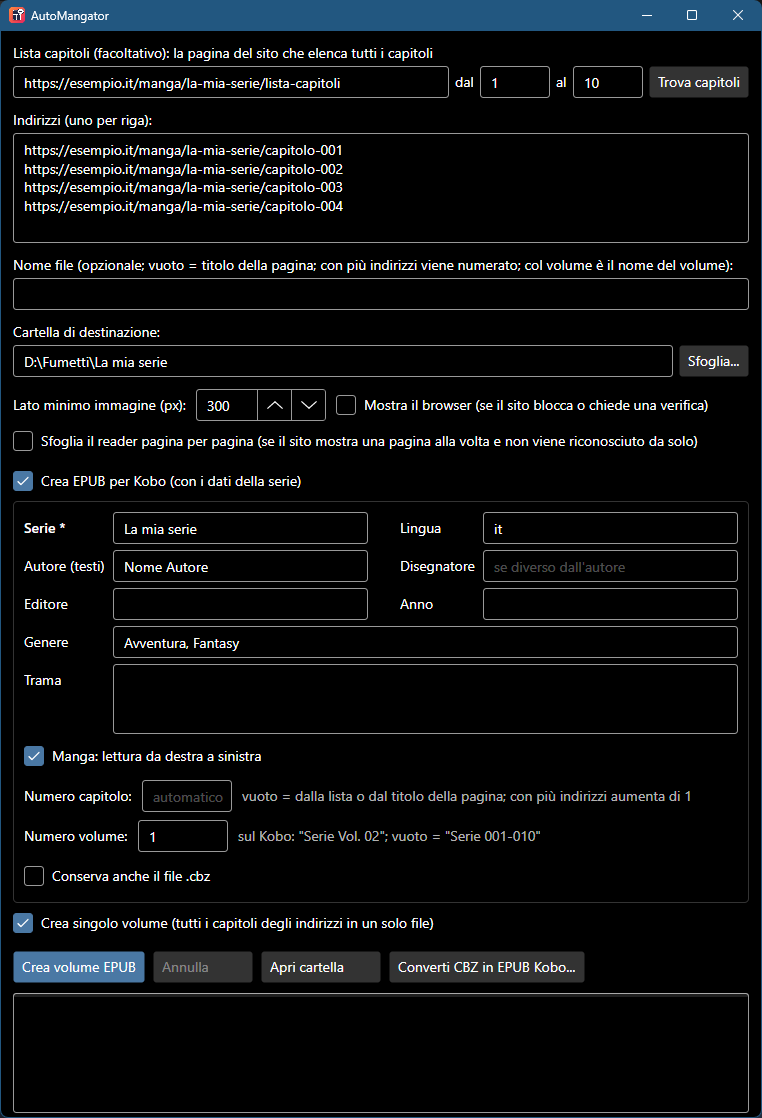
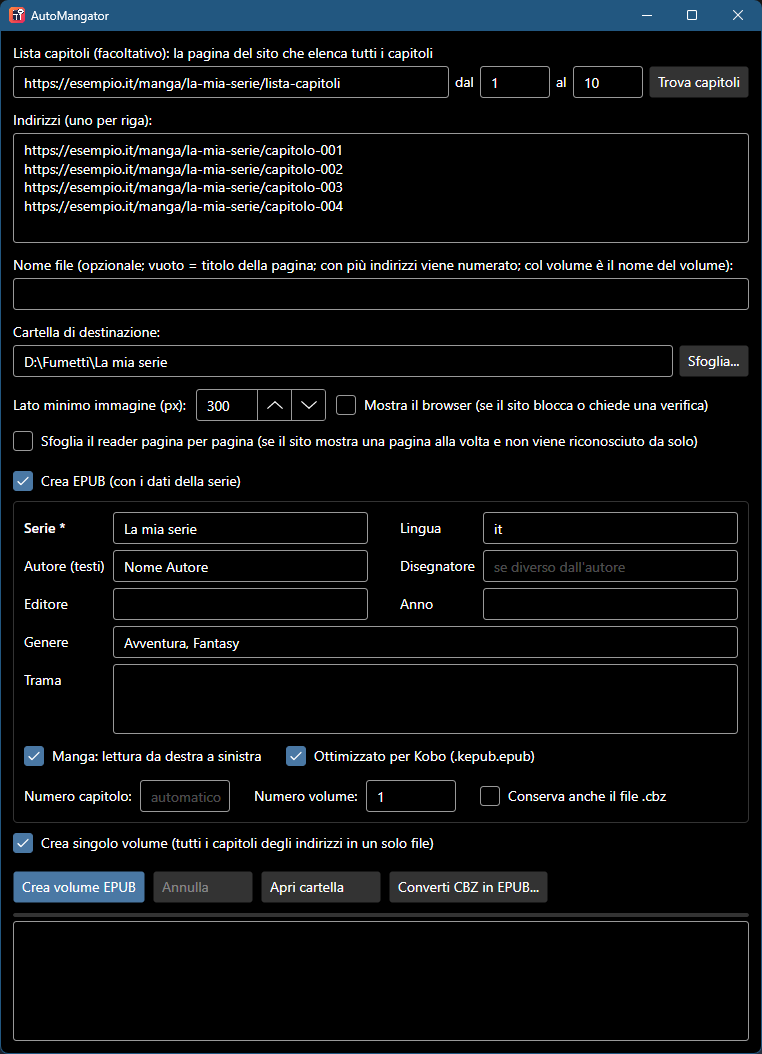
EPUB standard per tutti gli ebook reader, con opzione "Ottimizzato per Kobo"
- "Crea EPUB" crea EPUB 3 standard (.epub); la casella "Ottimizzato per Kobo" cambia
  solo l'estensione in .kepub.epub, così il Kobo usa il suo lettore per il layout fisso
- "Converti CBZ in EPUB...": nuova sottocartella EPUB (le cartelle Kobo delle versioni
  precedenti vengono ancora lette per riproporre i dati della serie)
- Opzione --kobo per --epub da terminale; in CI si provano entrambe le varianti
- Pannello EPUB più compatto, finestra che si adatta alle opzioni aperte e che scorre
  se il contenuto non sta nello schermo
- README: confronto CBZ / EPUB / Kobo e indicazioni per Kindle

diff --git a/EpubMaker.cs b/EpubMaker.cs
@@ -20,6 +20,13 @@ public sealed class BookInfo
     public string Language { get; set; } = "it";
     public string Summary { get; set; } = "";
     public bool RightToLeft { get; set; }
+    /// <summary>
+    /// Estensione .kepub.epub invece di .epub: il contenuto è lo stesso, ma così il Kobo apre il file
+    /// col suo lettore, che gestisce bene le pagine a layout fisso dei fumetti.
+    /// </summary>
+    public bool Kobo { get; set; }
+
+    public string Extension => Kobo ? ".kepub.epub" : ".epub";
 }
 
 /// <summary>Un capitolo: il .cbz di partenza con numero e titolo modificabili.</summary>
@@ -32,13 +39,16 @@ public sealed class ChapterInfo
 }
 
 /// <summary>
-/// Trasforma un .cbz in un .kepub.epub a layout fisso per Kobo, con titolo, autore, serie
-/// e numero del capitolo nei metadati. Le immagini restano quelle originali; solo i formati
-/// che Kobo non mostra (WebP, AVIF) vengono convertiti in JPEG.
+/// Trasforma un .cbz in un EPUB 3 standard a layout fisso, con titolo, autore, serie e numero del
+/// capitolo nei metadati (.kepub.epub se ottimizzato per Kobo). Le immagini restano quelle originali;
+/// solo WebP e AVIF, che molti ebook reader non mostrano, vengono convertiti in JPEG.
 /// </summary>
 public static partial class EpubMaker
 {
-    public const string OutputFolderName = "Kobo";
+    /// <summary>Sottocartella dove "Converti CBZ in EPUB" mette gli EPUB.</summary>
+    public const string OutputFolderName = "EPUB";
+    // Nome usato fino alla 1.5: le cartelle già create continuano a essere lette
+    private const string LegacyOutputFolderName = "Kobo";
 
     /// <summary>Elenca i .cbz della cartella, con il numero preso dal nome del file.</summary>
     public static List<ChapterInfo> LoadChapters(string folder)
@@ -70,8 +80,9 @@ public static partial class EpubMaker
     /// <summary>Rilegge i dati comuni da un EPUB già creato in precedenza, se c'è.</summary>
     public static BookInfo? TryReadExisting(string folder)
     {
-        // Nella sottocartella Kobo (finestra "Converti CBZ in EPUB Kobo") o nella cartella stessa (finestra principale)
-        string? epub = new[] { Path.Combine(folder, OutputFolderName), folder }
+        // Nella sottocartella EPUB (finestra "Converti CBZ in EPUB"), in quella Kobo delle versioni
+        // precedenti o nella cartella stessa (finestra principale)
+        string? epub = new[] { Path.Combine(folder, OutputFolderName), Path.Combine(folder, LegacyOutputFolderName), folder }
             .Where(Directory.Exists)
             .Select(d => Directory.GetFiles(d, "*.epub").Order().FirstOrDefault())
             .FirstOrDefault(f => f is not null);
@@ -99,12 +110,13 @@ public static partial class EpubMaker
                 Language = meta.Element(dc + "language")?.Value ?? "it",
                 Summary = meta.Element(dc + "description")?.Value ?? "",
                 RightToLeft = (string?)opf.Root.Element(ns + "spine")?.Attribute("page-progression-direction") == "rtl",
+                Kobo = epub.EndsWith(".kepub.epub", StringComparison.OrdinalIgnoreCase),
             };
         }
         catch (Exception ex) when (ex is IOException or InvalidDataException or System.Xml.XmlException) { return null; }
     }
 
-    /// <summary>Titolo mostrato dal Kobo: "Serie 012 - Titolo", così i capitoli restano in ordine.</summary>
+    /// <summary>Titolo mostrato dall'ebook reader: "Serie 012 - Titolo", così i capitoli restano in ordine.</summary>
     public static string BookTitle(BookInfo book, ChapterInfo ch)
     {
         string title = $"{book.Series} {PadNumber(ch.Number)}";
@@ -115,7 +127,7 @@ public static partial class EpubMaker
     public static string Create(BookInfo book, ChapterInfo ch, string outputFolder)
     {
         string title = BookTitle(book, ch);
-        string path = Path.Combine(outputFolder, CbzMaker.SafeFileName($"{book.Series} {PadNumber(ch.Number)}") + ".kepub.epub");
+        string path = Path.Combine(outputFolder, CbzMaker.SafeFileName($"{book.Series} {PadNumber(ch.Number)}") + book.Extension);
         // Stesso identificativo per lo stesso capitolo: ricreare l'EPUB non lo duplica
         return Write(book, [ch], title, NormalizeNumber(ch.Number), Identifier($"{book.Series.Trim().ToLowerInvariant()}|{NormalizeNumber(ch.Number)}"),
             path, chapterToc: false);
@@ -132,7 +144,7 @@ public static partial class EpubMaker
         string title = hasVolume ? $"{book.Series} Vol. {PadVolume(volume!)}" : $"{book.Series} {range}";
         string index = NormalizeNumber(hasVolume ? volume! : chapters[0].Number);
         string name = string.IsNullOrWhiteSpace(fileName) ? title : fileName.Trim();
-        string path = Path.Combine(outputFolder, CbzMaker.SafeFileName(name) + ".kepub.epub");
+        string path = Path.Combine(outputFolder, CbzMaker.SafeFileName(name) + book.Extension);
         return Write(book, chapters, title, index, Identifier($"{book.Series.Trim().ToLowerInvariant()}|volume|{title.ToLowerInvariant()}"),
             path, chapterToc: true);
     }
@@ -201,7 +213,7 @@ public static partial class EpubMaker
                 case SKEncodedImageFormat.Png: page = new(id, ".png", "image/png", w, h); break;
                 case SKEncodedImageFormat.Gif: page = new(id, ".gif", "image/gif", w, h); break;
                 default:
-                    // WebP, AVIF, ...: Kobo non li mostra negli EPUB
+                    // WebP, AVIF, ...: molti ebook reader (Kobo compreso) non li mostrano negli EPUB
                     using (var bmp = SKBitmap.Decode(data))
                     using (var img = SKImage.FromBitmap(bmp))
                     using (var jpg = img.Encode(SKEncodedImageFormat.Jpeg, 92))
@@ -238,7 +250,7 @@ public static partial class EpubMaker
             new XElement(ns + "meta", new XAttribute("refines", "#series"), new XAttribute("property", "collection-type"), "series"),
             new XElement(ns + "meta", new XAttribute("refines", "#series"), new XAttribute("property", "group-position"), index));
 
-        // Il primo autore è quello che Kobo mostra in libreria
+        // Il primo autore è quello che gli ebook reader mostrano in libreria
         void Creator(string id, string name, string role)
         {
             if (string.IsNullOrWhiteSpace(name)) return;

diff --git a/MainWindow.axaml.cs b/MainWindow.axaml.cs
@@ -13,7 +13,7 @@ public partial class MainWindow : Window
 {
     private CancellationTokenSource? _cts;
     private string? _lastFile;
-    private double _epubGrowth; // di quanto è stata allungata la finestra per il pannello EPUB
+    private double _autoGrowth; // di quanto è stata allungata la finestra per far posto ai pannelli
     // Capitoli trovati con "Trova capitoli": numero e titolo noti per indirizzo
     private Dictionary<string, FoundChapter> _found = [];
 
@@ -43,11 +43,11 @@ public partial class MainWindow : Window
             OpenInFileManager(txtFolder.Text.Trim());
     }
 
-    private async void btnKobo_Click(object? sender, RoutedEventArgs e)
+    private async void btnConvert_Click(object? sender, RoutedEventArgs e)
     {
         // Propone la cartella dell'ultimo .cbz creato, se c'è
         string? folder = _lastFile is not null ? Path.GetDirectoryName(_lastFile) : null;
-        await new KoboWindow(folder).ShowDialog(this);
+        await new ConvertWindow(folder).ShowDialog(this);
     }
 
     /// <summary>Apre una cartella, o la cartella di un file selezionandolo, in Esplora file / Finder.</summary>
@@ -70,14 +70,29 @@ public partial class MainWindow : Window
         if (pnlEpub.IsVisible == on) return;
         pnlEpub.IsVisible = on;
         UpdateStartLabel();
+        FitHeight();
+    }
 
-        // Allunga la finestra quanto il pannello (senza superare lo schermo) e,
-        // togliendo la spunta, la riaccorcia di quanto era stata allungata
-        if (on)
+    private void chkVolume_IsCheckedChanged(object? sender, RoutedEventArgs e)
+    {
+        pnlVolumeNumber.IsVisible = chkVolume.IsChecked == true;
+        UpdateStartLabel();
+        FitHeight();
+    }
+
+    /// <summary>
+    /// Adatta l'altezza della finestra a quello che mostra: la allunga quando compaiono pannelli
+    /// (senza superare lo schermo) e, quando spariscono, la riaccorcia di quanto l'aveva allungata.
+    /// </summary>
+    private void FitHeight()
+    {
+        // Si misura il contenuto (non la ScrollViewer che lo contiene) con altezza libera
+        layout.Measure(new Size(Math.Max(0, Bounds.Width), double.PositiveInfinity));
+        double needed = layout.DesiredSize.Height;
+        if (needed > Height)
         {
-            pnlEpub.Measure(new Size(Math.Max(0, Bounds.Width - 24), double.PositiveInfinity));
             double before = Height;
-            Height += pnlEpub.DesiredSize.Height + 4;
+            Height = needed;
             if (Screens.ScreenFromWindow(this) is { } screen)
             {
                 // Resta dentro l'area utile dello schermo (barra delle applicazioni / Dock esclusi),
@@ -89,19 +104,14 @@ public partial class MainWindow : Window
                 if (bottom > area.Bottom)
                     Position = new PixelPoint(Position.X, Math.Max(area.Y, Position.Y - (bottom - area.Bottom)));
             }
-            _epubGrowth = Height - before;
+            _autoGrowth += Height - before;
         }
-        else
+        else if (_autoGrowth > 0)
         {
-            Height = Math.Max(MinHeight, Height - _epubGrowth);
-            _epubGrowth = 0;
+            double shrink = Math.Min(_autoGrowth, Height - needed);
+            Height -= shrink;
+            _autoGrowth -= shrink;
         }
-    }
-
-    private void chkVolume_IsCheckedChanged(object? sender, RoutedEventArgs e)
-    {
-        pnlVolumeNumber.IsVisible = chkVolume.IsChecked == true;
-        UpdateStartLabel();
     }
 
     // "Crea CBZ", "Crea EPUB", "Crea volume CBZ", "Crea volume EPUB"
@@ -257,7 +267,7 @@ public partial class MainWindow : Window
         public double? FirstChapter;
     }
 
-    // Un file per capitolo (.cbz, oppure .kepub.epub). Restituisce true se un sito ha chiesto la verifica anti-bot.
+    // Un file per capitolo (.cbz, oppure .epub / .kepub.epub). Restituisce true se un sito ha chiesto la verifica anti-bot.
     private async Task<bool> CreateChaptersAsync(CbzMaker maker, Job job, IProgress<string> log, CancellationToken ct)
     {
         int ok = 0;
@@ -354,7 +364,11 @@ public partial class MainWindow : Window
                 _lastFile = await Task.Run(() => EpubMaker.CreateVolume(book, chapters, job.VolumeNumber, job.Folder, job.BaseName));
                 Log($"Volume creato: {_lastFile}");
                 if (job.KeepCbz)
-                    Log($"Conservato {await Task.Run(() => CbzMaker.MergeCbz(chapters.Select(c => c.CbzPath), job.Folder, Path.GetFileName(_lastFile).Replace(".kepub.epub", "")))}");
+                {
+                    // Stesso nome del volume EPUB, senza estensione (.epub o .kepub.epub)
+                    string name = Path.GetFileName(_lastFile)[..^book.Extension.Length];
+                    Log($"Conservato {await Task.Run(() => CbzMaker.MergeCbz(chapters.Select(c => c.CbzPath), job.Folder, name))}");
+                }
             }
             else
             {
@@ -442,7 +456,7 @@ public partial class MainWindow : Window
         btnCancel.IsEnabled = running;
         txtUrls.IsReadOnly = txtName.IsReadOnly = txtFolder.IsReadOnly = running;
         txtListUrl.IsReadOnly = txtFrom.IsReadOnly = txtTo.IsReadOnly = running;
-        btnBrowse.IsEnabled = numMin.IsEnabled = chkShow.IsEnabled = chkReader.IsEnabled = btnKobo.IsEnabled = !running;
+        btnBrowse.IsEnabled = numMin.IsEnabled = chkShow.IsEnabled = chkReader.IsEnabled = btnConvert.IsEnabled = !running;
         chkEpub.IsEnabled = pnlEpub.IsEnabled = chkVolume.IsEnabled = !running;
         progress.IsIndeterminate = running;
     }

diff --git a/ConvertWindow.axaml.cs b/ConvertWindow.axaml.cs
@@ -4,15 +4,15 @@ using Avalonia.Platform.Storage;
 
 namespace AutoMangator;
 
-/// <summary>Chiede i dati della serie e crea un EPUB per Kobo da ogni .cbz di una cartella.</summary>
-public partial class KoboWindow : Window
+/// <summary>Chiede i dati della serie e crea un EPUB da ogni .cbz di una cartella.</summary>
+public partial class ConvertWindow : Window
 {
     private List<ChapterInfo> _chapters = [];
     private bool _running;
 
-    public KoboWindow() : this(null) { }
+    public ConvertWindow() : this(null) { }
 
-    public KoboWindow(string? folder)
+    public ConvertWindow(string? folder)
     {
         InitializeComponent();
         if (folder is not null && Directory.Exists(folder))
@@ -81,15 +81,15 @@ public partial class KoboWindow : Window
             }
         });
         Log($"Fatto: {ok} di {_chapters.Count} EPUB creati in {output}");
-        if (ok > 0) Log("Copiali nel Kobo collegato via USB (anche in una sottocartella).");
+        if (ok > 0) Log("Copiali nell'ebook reader collegato via USB (anche in una sottocartella).");
         SetRunning(false);
     }
 
     private void btnOpen_Click(object? sender, RoutedEventArgs e)
     {
         if (string.IsNullOrEmpty(txtFolder.Text)) return;
-        string kobo = Path.Combine(txtFolder.Text, EpubMaker.OutputFolderName);
-        MainWindow.OpenInFileManager(Directory.Exists(kobo) ? kobo : txtFolder.Text);
+        string epubs = Path.Combine(txtFolder.Text, EpubMaker.OutputFolderName);
+        MainWindow.OpenInFileManager(Directory.Exists(epubs) ? epubs : txtFolder.Text);
     }
 
     private void btnClose_Click(object? sender, RoutedEventArgs e) => Close();

diff --git a/Program.cs b/Program.cs
@@ -17,9 +17,12 @@ internal static class Program
             return RunCliAsync(url, rest.Length > 0 ? rest[0] : DefaultOutputFolder,
                 args.Contains("--reader"), args.Contains("--show")).GetAwaiter().GetResult();
         }
-        // AutoMangator --epub <cartella con i .cbz> <serie> [autore]
+        // AutoMangator --epub <cartella con i .cbz> <serie> [autore] [--kobo]
         if (args is ["--epub", var folder, var series, ..])
-            return RunEpubCli(folder, new BookInfo { Series = series, Writer = args.Length > 3 ? args[3] : "" });
+        {
+            var rest = args.Skip(3).Where(a => a != "--kobo").ToArray();
+            return RunEpubCli(folder, new BookInfo { Series = series, Writer = rest.Length > 0 ? rest[0] : "", Kobo = args.Contains("--kobo") });
+        }
 
         BuildAvaloniaApp().StartWithClassicDesktopLifetime(args);
         return 0;

diff --git a/SeriesInfoPanel.axaml.cs b/SeriesInfoPanel.axaml.cs
@@ -23,6 +23,7 @@ public partial class SeriesInfoPanel : UserControl
         txtLanguage.Text = b.Language;
         txtSummary.Text = b.Summary;
         chkRtl.IsChecked = b.RightToLeft;
+        chkKobo.IsChecked = b.Kobo;
     }
 
     public BookInfo Read() => new()
@@ -36,5 +37,6 @@ public partial class SeriesInfoPanel : UserControl
         Language = txtLanguage.Text ?? "",
         Summary = txtSummary.Text ?? "",
         RightToLeft = chkRtl.IsChecked == true,
+        Kobo = chkKobo.IsChecked == true,
     };
 }

diff --git a/README.md b/README.md
@@ -6,7 +6,7 @@
 
 <p align="center">
   <b>Dalla pagina web al tuo ebook reader, in un clic.</b><br>
-  Incolla l'indirizzo di un capitolo: AutoMangator raccoglie le pagine e crea un fumetto <code>.cbz</code> o un <code>EPUB</code> pronto per Kobo.
+  Incolla l'indirizzo di un capitolo: AutoMangator raccoglie le pagine e crea un fumetto <code>.cbz</code> o un <code>EPUB</code> con titolo, serie e autore.
 </p>
 
 <p align="center">
@@ -32,7 +32,7 @@
 - 📋 **Dalla lista dei capitoli**: incolla la pagina che elenca i capitoli di una serie, scegli dal/al e gli indirizzi si compilano da soli.
 - 📦 **Più capitoli in coda**: un indirizzo per riga, un file per capitolo, oppure...
 - 📕 **...un unico volume**: tutti i capitoli in un solo file, con l'indice per saltare da un capitolo all'altro.
-- 📚 **EPUB per Kobo**: titolo, serie, numero del capitolo, autore e trama compaiono nella libreria del Kobo.
+- 📚 **EPUB con i dati della serie**: titolo, serie, numero del capitolo, autore e trama compaiono nella libreria dell'ebook reader. Con un clic, ottimizzato per **Kobo**.
 - 🖼 **Immagini originali**: nessuna ricompressione, la qualità resta quella del sito.
 - 🛡 **Niente pubblicità**: popup e nuove schede vengono chiusi, e la pagina non può essere portata su altri siti.
 - 💼 **Portable**: un unico file da avviare, niente installazione.
@@ -49,8 +49,19 @@ e premi **Trova capitoli**: gli indirizzi finiscono in **Indirizzi**, dove puoi 
 "La mia serie - Capitoli 001-010" (oppure come scrivi in **Nome file**). Se qualche capitolo non si riesce a scaricare,
 l'app te lo dice e ti chiede se creare comunque il volume con gli altri.
 
-Vuoi leggerlo sul **Kobo**? Spunta **Crea EPUB per Kobo**, scrivi il nome della serie (ed eventualmente autore, genere, trama...)
-e copia gli EPUB nel Kobo via USB. Con il volume puoi indicare anche il **Numero volume**: sul Kobo vedrai "La mia serie Vol. 01".
+**Un EPUB invece del CBZ?** Spunta **Crea EPUB**, scrivi il nome della serie (ed eventualmente autore, genere, trama...)
+e copia gli EPUB nell'ebook reader via USB. Con il volume puoi indicare anche il **Numero volume**: vedrai "La mia serie Vol. 01".
+Se leggi su un **Kobo**, spunta anche **Ottimizzato per Kobo**.
+
+### CBZ o EPUB? E per il Kobo?
+| Formato | Per chi |
+|---|---|
+| **CBZ** | Il formato classico dei fumetti: lo leggono i Kobo, PocketBook, molte app per tablet e PC. Contiene solo le pagine, senza titolo e autore. |
+| **EPUB** | Standard per tutti gli ebook reader (Kobo, PocketBook, Tolino, Apple Books, app Android...), con titolo, serie, autore, trama e indice. |
+| **EPUB + Ottimizzato per Kobo** | Stesso EPUB, ma chiamato `.kepub.epub`: così il Kobo lo apre col **suo** lettore, che mostra le pagine dei fumetti a schermo intero ed è più veloce a girare pagina. Gli altri ebook reader non lo riconoscono. |
+
+**Hai un Kindle?** Il Kindle non legge né CBZ né EPUB a pagine fisse. Il modo più semplice è passare i `.cbz` creati da AutoMangator a
+[Kindle Comic Converter](https://github.com/ciromattia/kcc), un programma gratuito pensato apposta per i fumetti su Kindle.
 
 ### Cosa spuntare
 Di solito **niente**: AutoMangator capisce da solo se la pagina mostra tutto il capitolo o è un reader da sfogliare.
@@ -59,10 +70,11 @@ Di solito **niente**: AutoMangator capisce da solo se la pagina mostra tutto il 
 |---|---|
 | **Mostra il browser** | Il sito ha una protezione anti-bot. Te lo dice l'app e spunta la casella per te: premi di nuovo il pulsante e, se nella finestra compare una verifica, completala tu. |
 | **Sfoglia il reader pagina per pagina** | È un reader a una pagina per volta, ma ti è arrivata solo la prima pagina. |
-| **Crea EPUB per Kobo** | Vuoi gli EPUB con i dati della serie invece del semplice `.cbz`. |
+| **Crea EPUB** | Vuoi gli EPUB con i dati della serie invece del semplice `.cbz`. |
+| **Ottimizzato per Kobo** | Leggi gli EPUB su un Kobo. |
 | **Crea singolo volume** | Vuoi tutti i capitoli in un unico file invece di uno per capitolo. |
 
-Hai già una cartella piena di `.cbz`? Il pulsante **Converti CBZ in EPUB Kobo...** li trasforma tutti in una volta, senza scaricare nulla, con una tabella per correggere numeri e titoli dei capitoli.
+Hai già una cartella piena di `.cbz`? Il pulsante **Converti CBZ in EPUB...** li trasforma tutti in una volta, senza scaricare nulla, con una tabella per correggere numeri e titoli dei capitoli.
 
 ## Installazione
 **Windows 10/11**: scarica `AutoMangator-Windows-x64.exe` e avvialo. Usa Microsoft Edge, già presente in Windows.
@@ -76,8 +88,15 @@ Alla prima conversione scarica WebKit, il motore di Safari (una volta sola).
 <details>
 <summary><b>Il Kobo mostra "Autore sconosciuto" e il nome del file</b></summary>
 
-È normale con i `.cbz`: il software del Kobo non legge i dati al loro interno. Usa **Crea EPUB per Kobo** e vedrai titolo, autore e copertina.
+È normale con i `.cbz`: il software del Kobo non legge i dati al loro interno. Usa **Crea EPUB** con **Ottimizzato per Kobo** e vedrai titolo, autore e copertina.
 La scheda **Serie** del Kobo, per i libri copiati via USB, richiede la mod gratuita [NickelSeries](https://pgaskin.net/kepubify/ns/).
+</details>
+
+<details>
+<summary><b>Sul Kobo le pagine del fumetto non sono a schermo intero</b></summary>
+
+Probabilmente l'EPUB è stato creato senza **Ottimizzato per Kobo**: con l'estensione `.epub` il Kobo usa il suo lettore più vecchio,
+che gestisce male le pagine a dimensione fissa. Ricrealo con la casella spuntata (anche dai `.cbz`, con **Converti CBZ in EPUB...**).
 </details>
 
 <details>

diff --git a/docs/SVILUPPO.md b/docs/SVILUPPO.md
@@ -9,9 +9,9 @@ per pilotare il browser: Microsoft Edge su Windows, WebKit (scaricato al primo a
 | `CbzMaker.cs` | Apre la pagina, la scorre, raccoglie le immagini e scrive il `.cbz` |
 | `CbzMaker.Reader.cs` | Reader a una pagina per volta, protezione da popup/navigazioni, verifiche anti-bot |
 | `CbzMaker.List.cs` | Dalla pagina con la lista dei capitoli ricava gli indirizzi (gruppo di link con lo stesso schema) |
-| `EpubMaker.cs` | Da `.cbz` a `.kepub.epub` a layout fisso con i metadati della serie, anche come volume con indice |
+| `EpubMaker.cs` | Da `.cbz` a EPUB 3 a layout fisso con i metadati della serie, anche come volume con indice (`.kepub.epub` se ottimizzato per Kobo: cambia solo l'estensione) |
 | `MainWindow.axaml(.cs)` | Finestra principale |
-| `KoboWindow.axaml(.cs)` | Finestra "Converti CBZ in EPUB Kobo" per una cartella di `.cbz` |
+| `ConvertWindow.axaml(.cs)` | Finestra "Converti CBZ in EPUB" per una cartella di `.cbz` |
 | `SeriesInfoPanel.axaml(.cs)` | Campi della serie, condivisi dalle due finestre |
 | `Assets/` | Icona: `icon.svg` è la sorgente, il resto si rigenera con `make-icons.cs` |
 
@@ -26,7 +26,8 @@ dotnet publish AutoMangator.csproj -p:PublishProfile=Portable
 ## Da terminale
 - `AutoMangator --cli <indirizzo> [cartella] [--reader] [--show]`: crea il `.cbz` senza aprire la finestra
   (`--reader` forza lo sfoglio del reader, `--show` mostra il browser).
-- `AutoMangator --epub <cartella> <serie> [autore]`: crea gli EPUB per Kobo dai `.cbz` della cartella.
+- `AutoMangator --epub <cartella> <serie> [autore] [--kobo]`: crea gli EPUB dai `.cbz` della cartella, nella sottocartella `EPUB`
+  (`--kobo` li crea come `.kepub.epub`).
 
 ## Icone
 Dopo aver modificato `Assets/icon.svg`, dalla cartella `Assets`:

diff --git a/.github/release-notes.md b/.github/release-notes.md
@@ -23,10 +23,14 @@ Durante il download popup e nuove schede vengono chiusi e la pagina non può ess
 - **Crea singolo volume**: tutti i capitoli in un solo file (CBZ o EPUB con indice per capitolo e numero del volume).
   Se un capitolo non si scarica, l'app chiede se creare comunque il volume con gli altri.
 
-## EPUB per Kobo
-Il Kobo non legge i dati contenuti nei `.cbz`. AutoMangator può creare per ogni capitolo un `.kepub.epub` con serie,
-numero, autore e gli altri dati: spuntando **Crea EPUB per Kobo** nella finestra principale mentre scarichi, oppure
-con **Converti CBZ in EPUB Kobo...** partendo da una cartella di `.cbz` già scaricati. Basta poi copiarli nel Kobo via USB.
+## EPUB
+Oltre al `.cbz`, AutoMangator crea **EPUB standard** con serie, numero, autore e gli altri dati, leggibili da tutti gli
+ebook reader: spuntando **Crea EPUB** nella finestra principale mentre scarichi, oppure con **Converti CBZ in EPUB...**
+partendo da una cartella di `.cbz` già scaricati. Basta poi copiarli nell'ebook reader via USB.
+
+Se leggi su un **Kobo**, spunta **Ottimizzato per Kobo**: l'EPUB viene creato come `.kepub.epub` e il Kobo lo apre col
+suo lettore, che mostra le pagine dei fumetti a schermo intero. Per il **Kindle** usa i `.cbz` con
+[Kindle Comic Converter](https://github.com/ciromattia/kcc).
 
 ## Browser usato
 - Windows: Microsoft Edge, già presente nel sistema.
